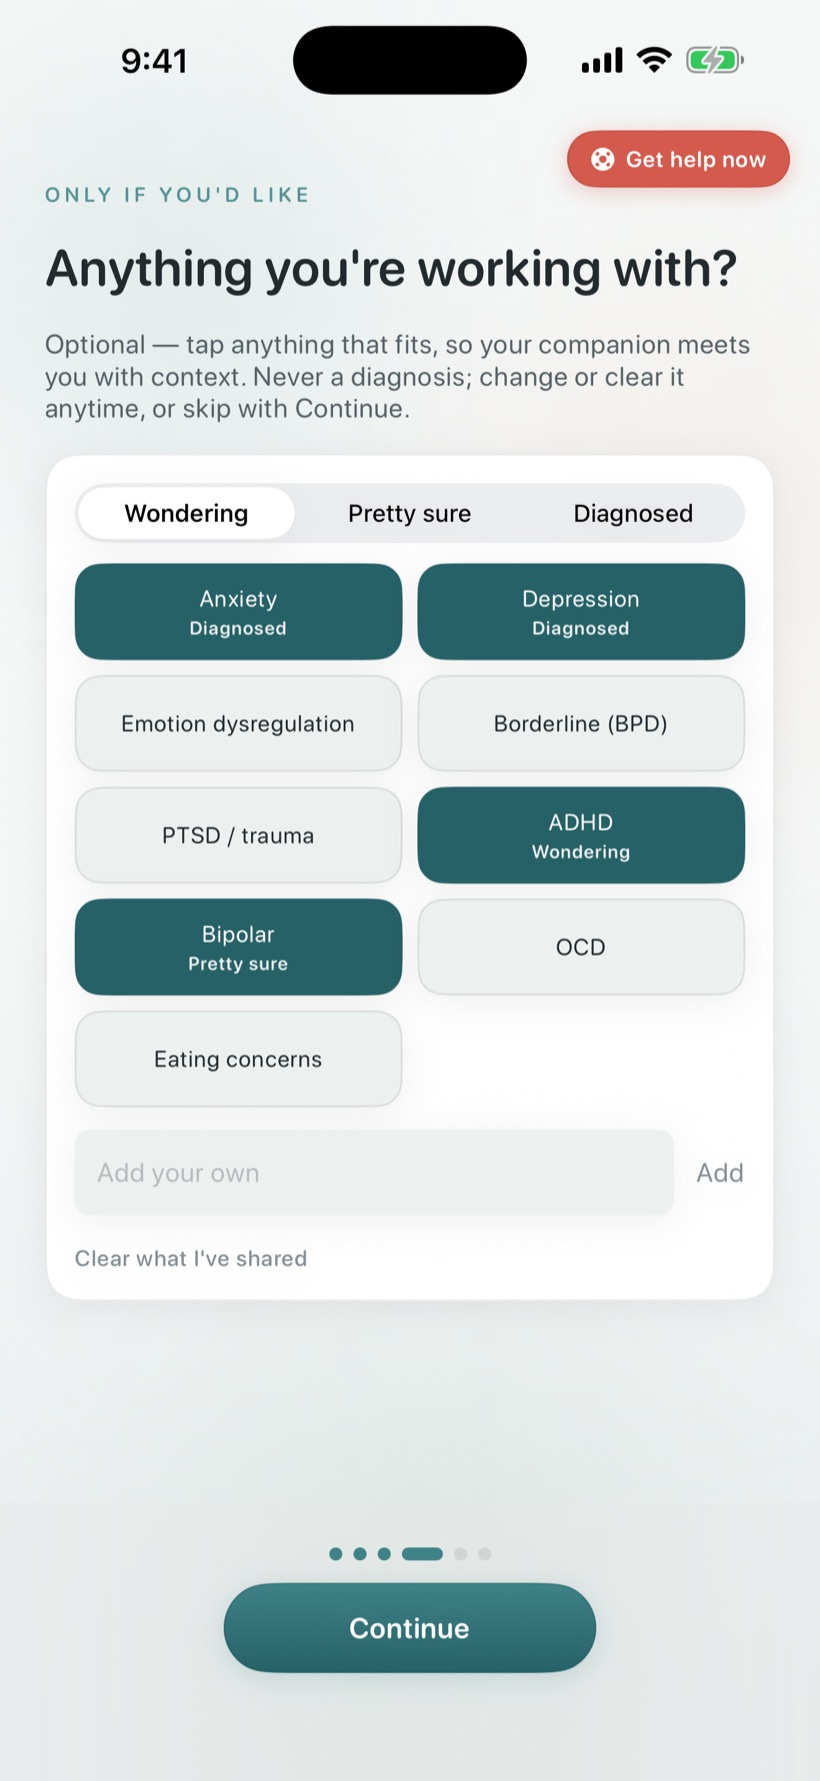
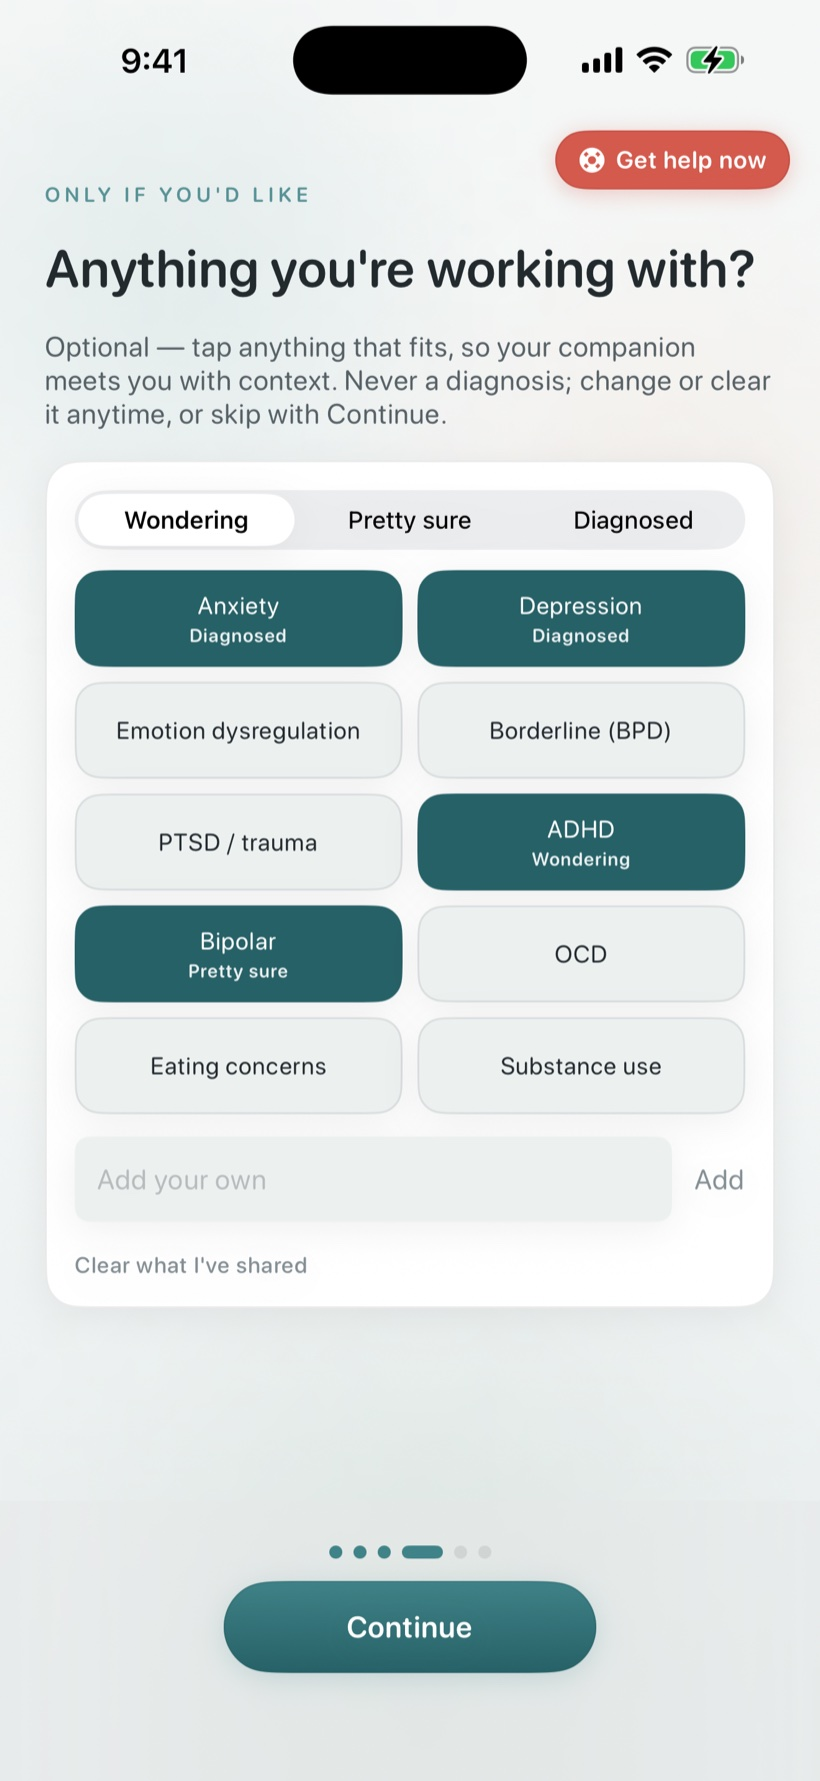
Update conditions onboarding screenshot to balanced 10-chip grid
Regenerate 06-context.jpg now that the conditions step has a 10th
chip ("Substance use"), so it shows 5 even rows instead of a lone
trailing chip; bump the cache-buster to match.

diff --git a/index.html b/index.html
@@ -596,7 +596,7 @@
     <div class="container">
       <div class="spotlight-grid">
         <div class="spotlight-phone">
-          <div class="screen-frame"><img src="screenshots/06-context.jpg?v=20260625cond3" alt="Quietoak onboarding — sharing what you're navigating, with a Wondering / Pretty sure / Diagnosed level picker" loading="lazy"></div>
+          <div class="screen-frame"><img src="screenshots/06-context.jpg?v=20260625cond10" alt="Quietoak onboarding — sharing what you're navigating, with a Wondering / Pretty sure / Diagnosed level picker" loading="lazy"></div>
         </div>
         <div>
           <div class="section-eyebrow">Knows you better</div>
